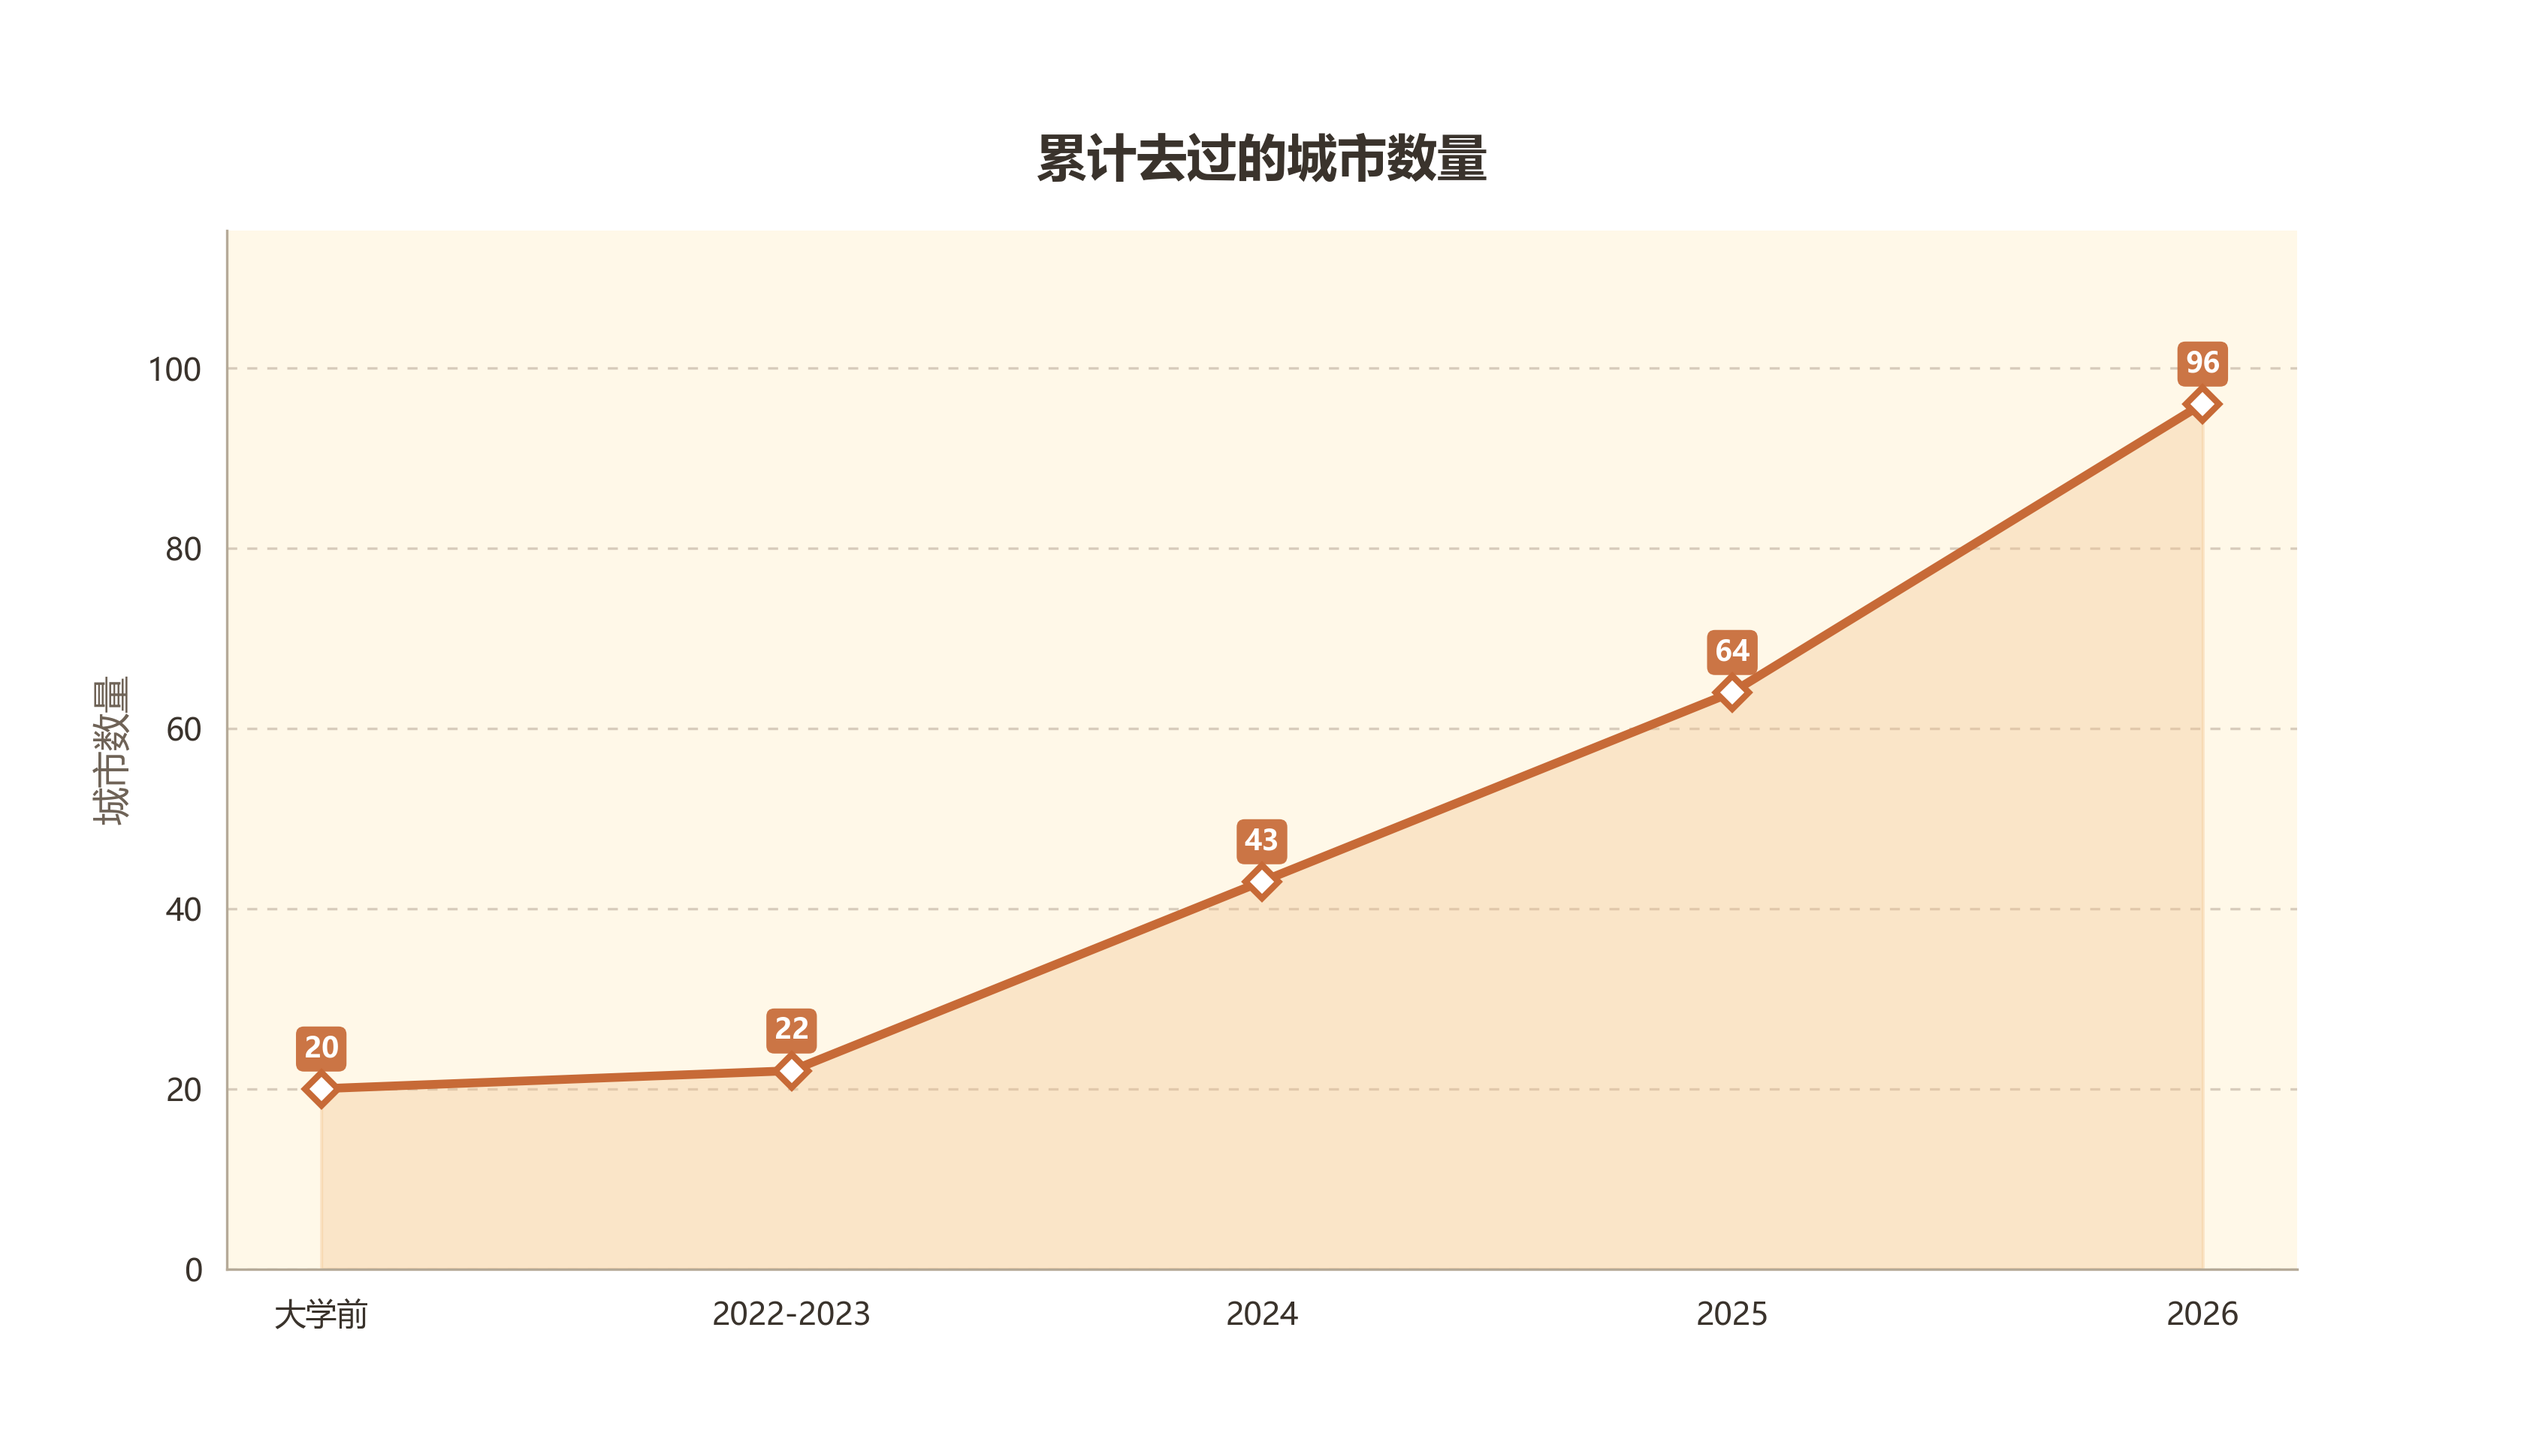
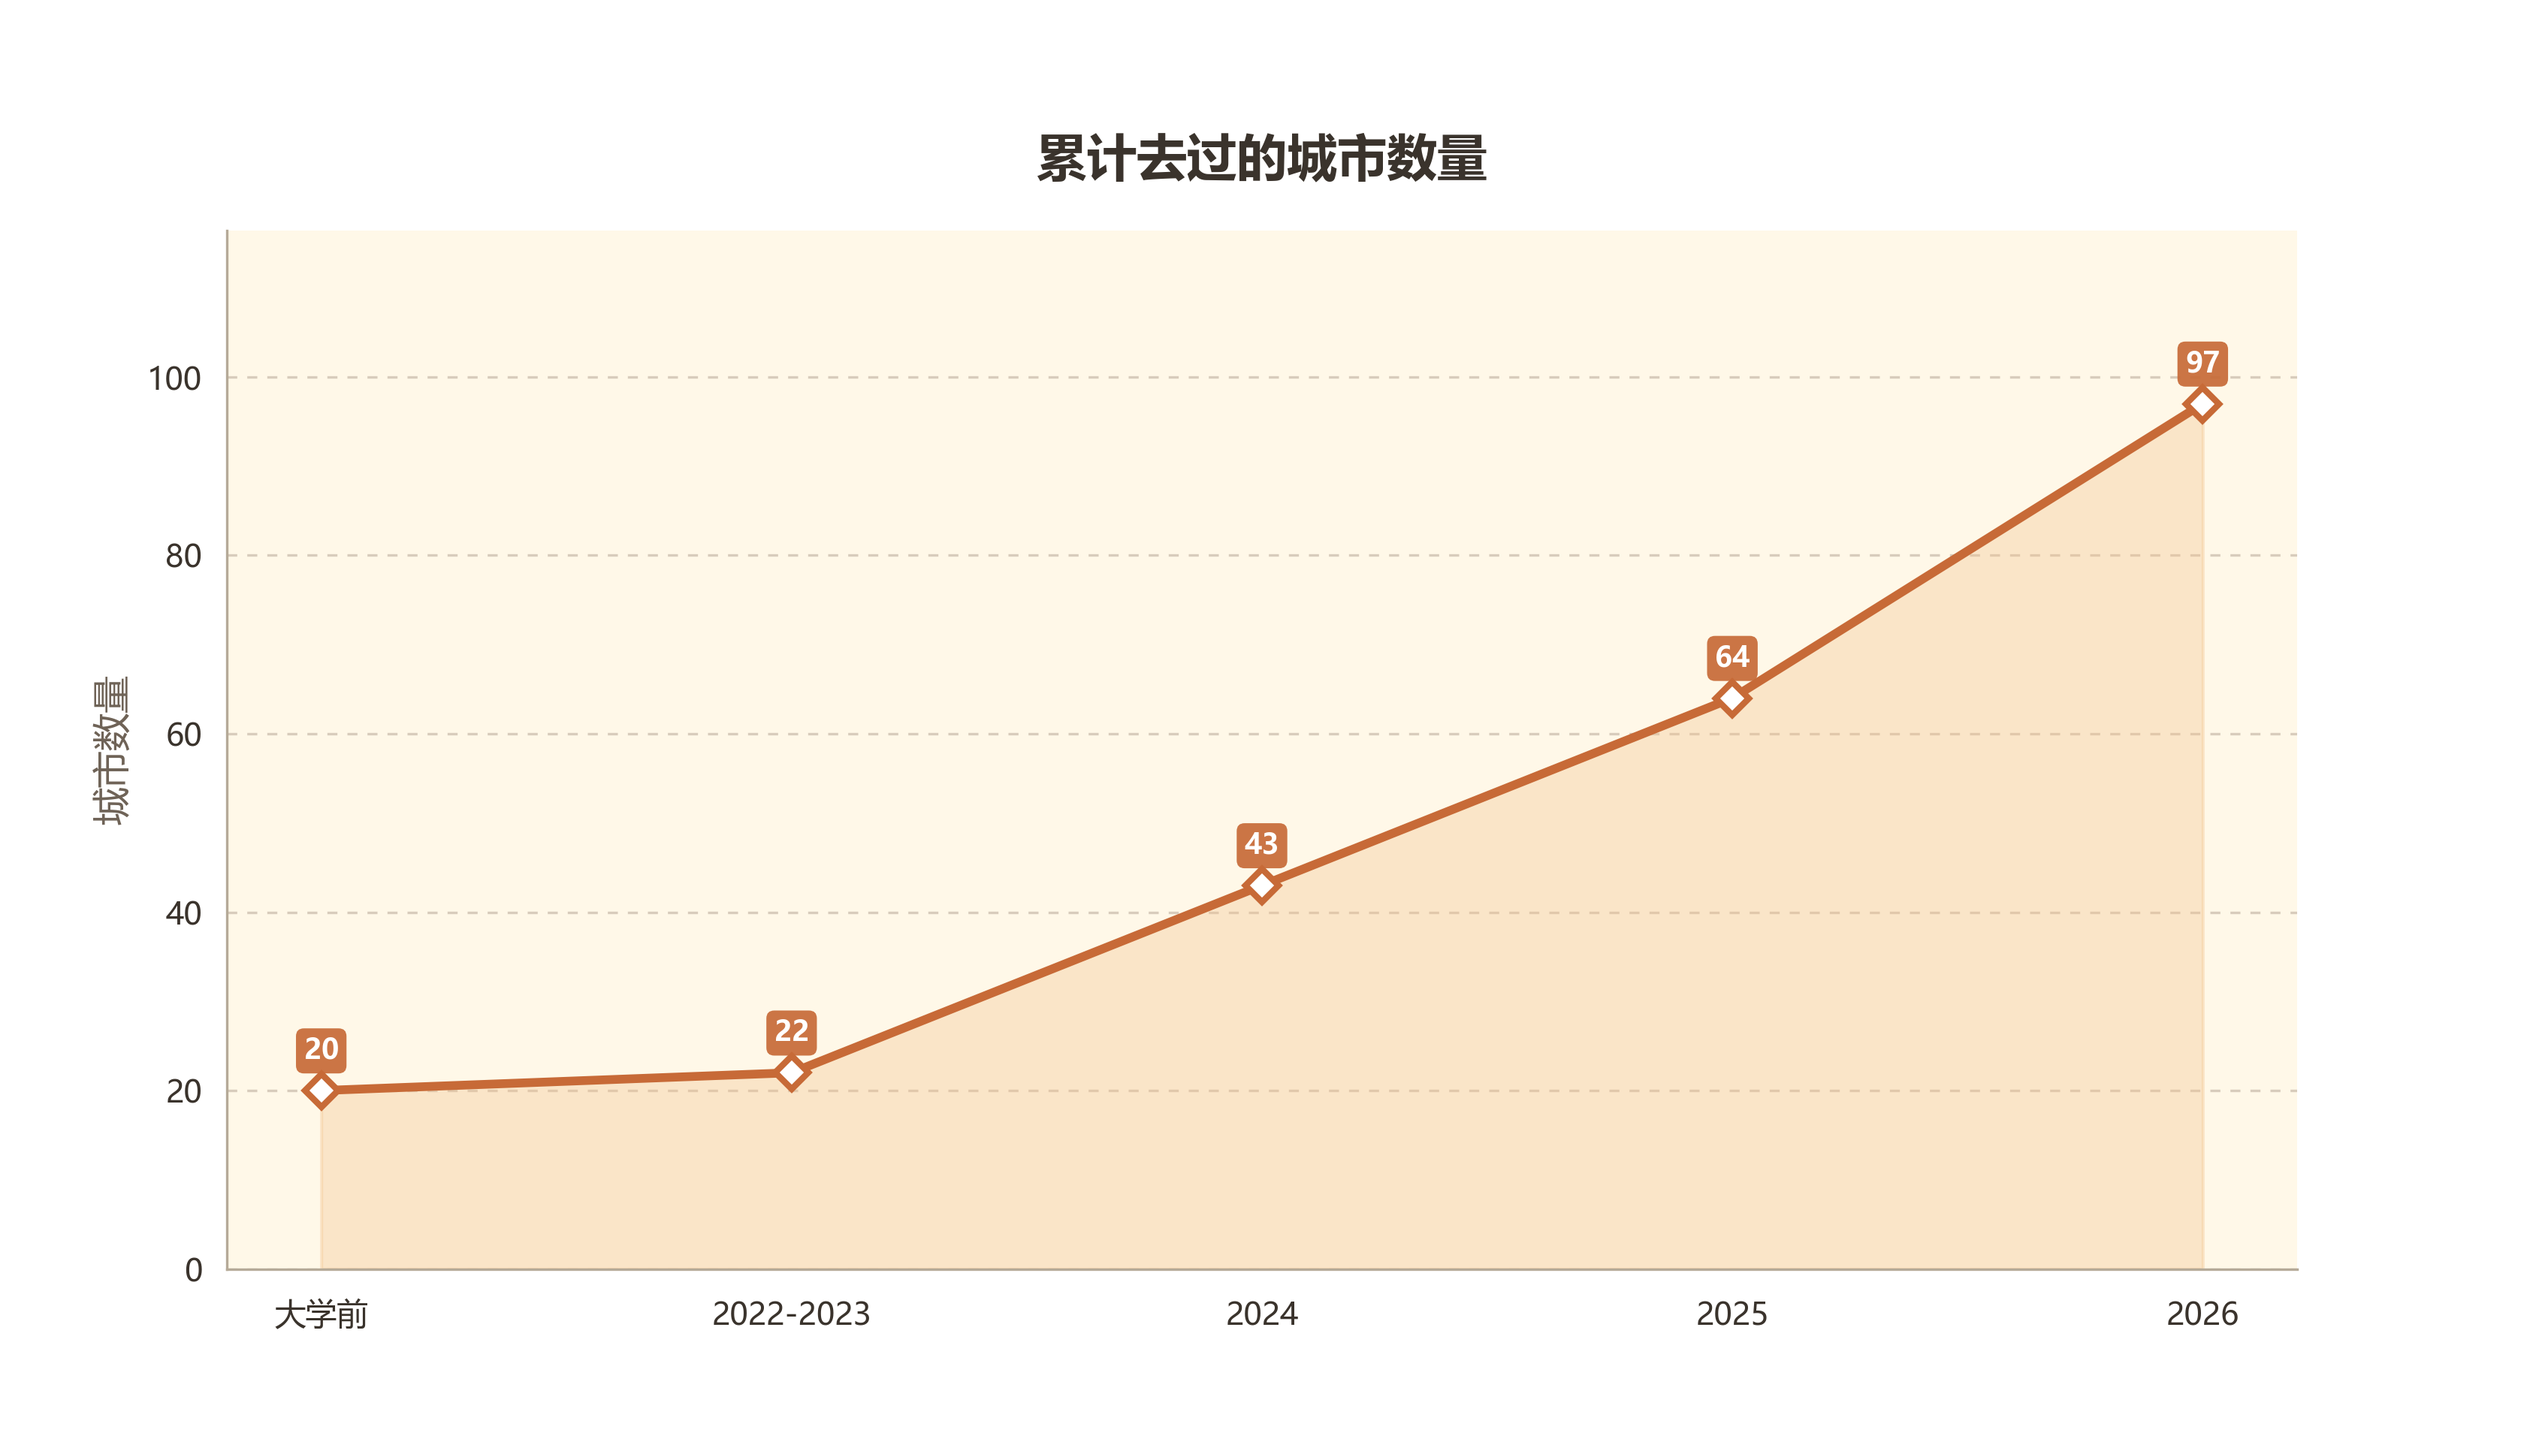
commit

diff --git a/source/_posts/快走踏清秋：东北漫游.md b/source/_posts/快走踏清秋：东北漫游.md
@@ -156,6 +156,11 @@ date: 2026-10-25 00:00:00
 
 看过教堂后就沿石头道街和西十二道街到中央大街。来到哈尔滨后才知中央大街是一条步行街，比想象中窄很多，圣·索菲亚教堂也不是紧挨着中央大街。在中央大街上走过了米尼阿久尔餐厅、犹太国民银行、马迭尔宾馆[^7]、松浦洋行、秋林洋行道里分行、中央大街邮政支局（远东银行）等诸多老建筑，还有一个哈尔滨巧克力艺术馆蛮有意思。不到半小时就走到步行街尽头，前方就是松花江和哈尔滨市人民防洪胜利纪念塔，塔基上分别刻有1932、1957、1998年三次大洪水的水位（塔建于1958年）。此时还不到五点半，太阳已落下去，西天还有些残霞，在江边驻足片刻，便骑车去尤利娅俄餐馆吃晚饭，路过尚志大街上的兆麟公园和一毛钱饭店遗址。兆麟公园和前文提到的兆麟街都得名于东北抗联创始人和领导人之一李兆麟烈士；兆麟公园也是哈尔滨第一座公园，始建于1906年，萧红和萧军常相约于此，朱自清也来游览过；兆麟公园还在1963年举办了首届冰灯游园会，成为中国现代冰灯艺术的发祥地。一毛钱饭店则是1930年代初哈尔滨党组织和左翼文化人士进行革命活动的秘密阵地，萧红和萧军等人都是这里的常客。
 
+<div style="display: flex; gap: 8px; justify-content: center;">
+  <img src="https://s3.bmp.ovh/2026/11/14/nxjpCzVo.jpg" alt="" style="width: 49%; display: block;">
+  <img src="https://s3.bmp.ovh/2026/11/14/yEeIz8Aw.jpg" alt="" style="width: 49%; display: block;">
+</div>
+
 尤利娅俄餐馆味道和环境都不错，单人套餐也比较实惠。饭后去买哈尔滨红肠，准备将其作为特产带回去。按网上的推荐，我选了风评较好的商委红肠，还有比较出名的秋林里道斯红肠，下次再来尝。商委红肠不设网购、代购和分店，只有一间不大的店面，我到的时候没有其他顾客，据说平时常常要排队。我买了一包四根红肠（搞活动额外送一根），51元，还有一包38元的肉丸子。买好后就去坐地铁回酒店，经过哈尔滨火车站。2018年启用的哈尔滨站新站房恢弘而不失典雅，融合了欧洲“新艺术运动”风格和巴洛克风格，在夜色中更显壮观，本身就能作为一个景点，可惜这次没能在这个站坐车。
 
 在哈尔滨只有一天的匆忙行程，自然还有不少地方没能去到，不过给我的印象还是很不错的，可能一大因素在于来之前没有看过多网上攻略——看了一些觉得没什么用——也就没有被一些网红滤镜把期待值调得过高。漫步探索时，能从随处可见的西式老建筑感受到历史的积淀（虽然仅有百余年建城史）；而且哈尔滨虽是大城市，气质却不咄咄逼人，这让我平添了几分亲切感，以后大概还会常来——当然，有部分原因是去黑龙江其他城市通常都要在哈尔滨中转。

diff --git a/统计/字数统计/文章统计.md b/统计/字数统计/文章统计.md
@@ -1,6 +1,6 @@
 # 文章字数统计（游记 + 指定文章）
 
-统计时间： 2026-11-14 17:43:11
+统计时间： 2026-11-14 18:02:55
 
 ## 总体统计
 
@@ -39,8 +39,8 @@
 | 15 | [清明游记：枣庄、徐州、淮北](https://kangaroogao.com/posts/b857/) | 6.3k | 2025-04-10 | 2026-08-25 |
 | 16 | [小城小记1：六安](https://kangaroogao.com/posts/83be/) | 1.5k | 2025-06-24 | 2026-07-27 |
 | 17 | [北京行迹](https://kangaroogao.com/posts/1502/) | 15.1k | 2025-08-01 | 2026-10-31 |
-| 18 | [大城小事2：深圳（兼记东莞）](https://kangaroogao.com/posts/a78e/) | 1.6k | 2025-08-06 | 2026-07-27 |
-| 19 | [大城小事1：广州](https://kangaroogao.com/posts/8478/) | 4.1k | 2025-08-06 | 2026-08-11 |
+| 18 | [大城小事1：广州](https://kangaroogao.com/posts/8478/) | 4.1k | 2025-08-06 | 2026-08-11 |
+| 19 | [大城小事2：深圳（兼记东莞）](https://kangaroogao.com/posts/a78e/) | 1.6k | 2025-08-06 | 2026-07-27 |
 | 20 | [回家路上2：泾县、福州、龙岩、赣州](https://kangaroogao.com/posts/99aa/) | 10.5k | 2025-08-06 | 2026-09-23 |
 | 21 | [保研夏令营期间的行走](https://kangaroogao.com/posts/3321/) | 1.9k | 2025-08-06 | 2026-07-16 |
 | 22 | [湛江碎影](https://kangaroogao.com/posts/a7ec/) | 6.1k | 2025-08-24 | 2026-08-23 |
@@ -58,7 +58,7 @@
 | 34 | [周末到河北：张家口（市区、蔚县、宣化）](https://kangaroogao.com/posts/b102/) | 2.3k | 2026-08-05 | 2026-08-16 |
 | 35 | [在 K158 上](https://kangaroogao.com/posts/6ecd/) | 3.4k | 2026-08-09 | 2026-09-26 |
 | 36 | [小城小记5：德州](https://kangaroogao.com/posts/1244/) | 1.1k | 2026-09-03 | 2026-09-07 |
-| 37 | [快走踏清秋：东北漫游](https://kangaroogao.com/posts/6a8b/) | 8.8k | 2026-10-25 | 2026-11-12 |
+| 37 | [快走踏清秋：东北漫游](https://kangaroogao.com/posts/6a8b/) | 8.8k | 2026-10-25 | 2026-11-14 |
 
 ## 字数分布
 
@@ -104,7 +104,7 @@
 | 30 | [小城小记3：寿县、阜阳、周口、漯河、驻马店、信阳、孝感](https://kangaroogao.com/posts/e4f4/) | 7.4k | 2025-10-03 | 2026-10-18 |
 | 31 | [行旅杂记](https://kangaroogao.com/posts/9e84/) | 7.5k | 2024-11-15 | 2026-11-14 |
 | 32 | [回家路上3：永州、柳州、来宾、贵港、玉林](https://kangaroogao.com/posts/526f/) | 8.2k | 2026-02-12 | 2026-08-25 |
-| 33 | [快走踏清秋：东北漫游](https://kangaroogao.com/posts/6a8b/) | 8.8k | 2026-10-25 | 2026-11-12 |
+| 33 | [快走踏清秋：东北漫游](https://kangaroogao.com/posts/6a8b/) | 8.8k | 2026-10-25 | 2026-11-14 |
 | 34 | [回家路上2：泾县、福州、龙岩、赣州](https://kangaroogao.com/posts/99aa/) | 10.5k | 2025-08-06 | 2026-09-23 |
 | 35 | [走河西](https://kangaroogao.com/posts/c866/) | 10.7k | 2026-07-20 | 2026-11-05 |
 | 36 | [书的奇迹：我的阅读小史（大一下学期之前）](https://kangaroogao.com/posts/d4b0/) | 13k | 2023-03-22 | 2026-08-09 |

diff --git a/统计/字数统计/游记统计.md b/统计/字数统计/游记统计.md
@@ -1,6 +1,6 @@
 # 游记类别字数统计
 
-统计时间： 2026-11-14 17:43:01
+统计时间： 2026-11-14 18:02:45
 
 ## 总体统计
 
@@ -33,8 +33,8 @@
 | 11 | [清明游记：枣庄、徐州、淮北](https://kangaroogao.com/posts/b857/) | 6.3k | 2025-04-10 | 2026-08-25 |
 | 12 | [小城小记1：六安](https://kangaroogao.com/posts/83be/) | 1.5k | 2025-06-24 | 2026-07-27 |
 | 13 | [北京行迹](https://kangaroogao.com/posts/1502/) | 15.1k | 2025-08-01 | 2026-10-31 |
-| 14 | [大城小事2：深圳（兼记东莞）](https://kangaroogao.com/posts/a78e/) | 1.6k | 2025-08-06 | 2026-07-27 |
-| 15 | [大城小事1：广州](https://kangaroogao.com/posts/8478/) | 4.1k | 2025-08-06 | 2026-08-11 |
+| 14 | [大城小事1：广州](https://kangaroogao.com/posts/8478/) | 4.1k | 2025-08-06 | 2026-08-11 |
+| 15 | [大城小事2：深圳（兼记东莞）](https://kangaroogao.com/posts/a78e/) | 1.6k | 2025-08-06 | 2026-07-27 |
 | 16 | [回家路上2：泾县、福州、龙岩、赣州](https://kangaroogao.com/posts/99aa/) | 10.5k | 2025-08-06 | 2026-09-23 |
 | 17 | [保研夏令营期间的行走](https://kangaroogao.com/posts/3321/) | 1.9k | 2025-08-06 | 2026-07-16 |
 | 18 | [湛江碎影](https://kangaroogao.com/posts/a7ec/) | 6.1k | 2025-08-24 | 2026-08-23 |
@@ -52,7 +52,7 @@
 | 30 | [周末到河北：张家口（市区、蔚县、宣化）](https://kangaroogao.com/posts/b102/) | 2.3k | 2026-08-05 | 2026-08-16 |
 | 31 | [在 K158 上](https://kangaroogao.com/posts/6ecd/) | 3.4k | 2026-08-09 | 2026-09-26 |
 | 32 | [小城小记5：德州](https://kangaroogao.com/posts/1244/) | 1.1k | 2026-09-03 | 2026-09-07 |
-| 33 | [快走踏清秋：东北漫游](https://kangaroogao.com/posts/6a8b/) | 8.8k | 2026-10-25 | 2026-11-12 |
+| 33 | [快走踏清秋：东北漫游](https://kangaroogao.com/posts/6a8b/) | 8.8k | 2026-10-25 | 2026-11-14 |
 
 ## 字数分布
 
@@ -95,7 +95,7 @@
 | 27 | [小城小记3：寿县、阜阳、周口、漯河、驻马店、信阳、孝感](https://kangaroogao.com/posts/e4f4/) | 7.4k | 2025-10-03 | 2026-10-18 |
 | 28 | [行旅杂记](https://kangaroogao.com/posts/9e84/) | 7.5k | 2024-11-15 | 2026-11-14 |
 | 29 | [回家路上3：永州、柳州、来宾、贵港、玉林](https://kangaroogao.com/posts/526f/) | 8.2k | 2026-02-12 | 2026-08-25 |
-| 30 | [快走踏清秋：东北漫游](https://kangaroogao.com/posts/6a8b/) | 8.8k | 2026-10-25 | 2026-11-12 |
+| 30 | [快走踏清秋：东北漫游](https://kangaroogao.com/posts/6a8b/) | 8.8k | 2026-10-25 | 2026-11-14 |
 | 31 | [回家路上2：泾县、福州、龙岩、赣州](https://kangaroogao.com/posts/99aa/) | 10.5k | 2025-08-06 | 2026-09-23 |
 | 32 | [走河西](https://kangaroogao.com/posts/c866/) | 10.7k | 2026-07-20 | 2026-11-05 |
 | 33 | [北京行迹](https://kangaroogao.com/posts/1502/) | 15.1k | 2025-08-01 | 2026-10-31 |

diff --git a/source/_posts/行旅杂记.md b/source/_posts/行旅杂记.md
@@ -334,6 +334,7 @@ date: 2024-11-15 00:00:00
 ||哈尔滨西|北京朝阳|G102|1158|
 |2026.11|北京西|菏泽|K105|542|
 ||菏泽东|合肥西|G3935|483|
+
 {% endhideToggle %}
 
 {% hideToggle 展开车站列表 %}

diff --git a/统计/字数统计/读书笔记统计.md b/统计/字数统计/读书笔记统计.md
@@ -1,6 +1,6 @@
 # 读书笔记类别字数统计
 
-统计时间： 2026-11-14 17:43:21
+统计时间： 2026-11-14 18:03:05
 
 ## 总体统计
 
